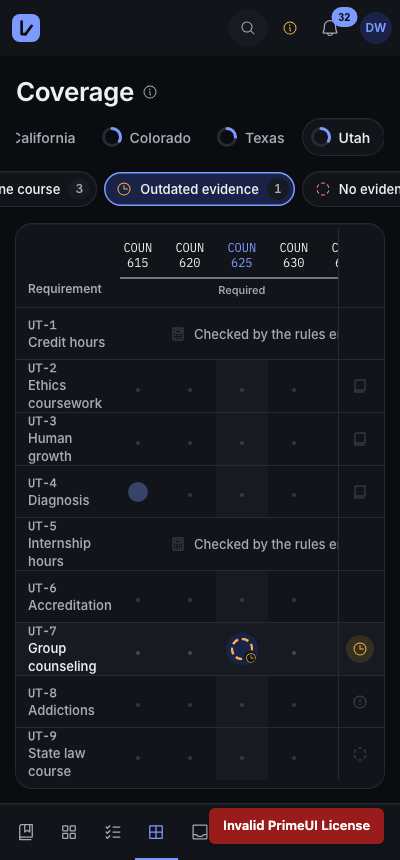
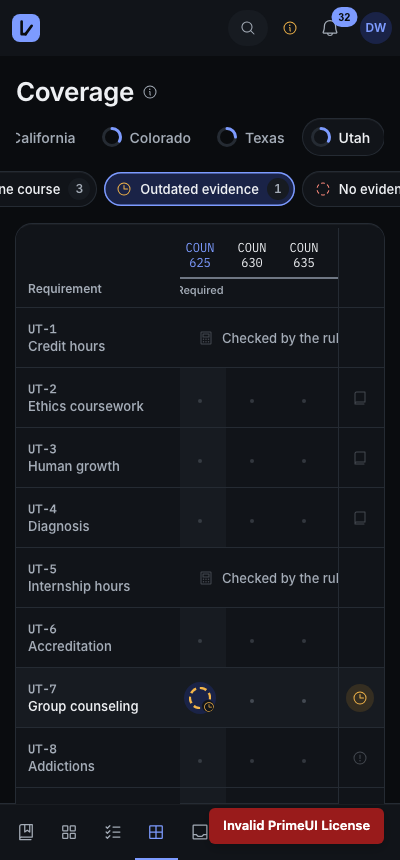
F10b: retaken coverage screenshots, D-417 and D-423 updated for the review

diff --git a/docs/decisions/F10b.md b/docs/decisions/F10b.md
@@ -15,8 +15,12 @@ started) are extracted as `ui/state-pills.ts`: the PrimeNG `TabList` and its tab
 `p-tabs` (Tab and TabList inject `Tabs` through the host element, so the screen keeps the panels and the ARIA tab
 pattern stays whole), the 20 px ring hidden from assistive technology with its numbers as the tab's description, and
 `view-transition-name: state-<code>` on the active pill. One addition: a pill opened from a link that lies beyond the
-edge of a narrow window is scrolled into view by scrolling the list, never the page. Review adopts it when UI2-2 is on
-`main` (see the progress file for where that stands at merge time).
+edge of a narrow window is scrolled into view by scrolling the list, never the page. UI2-2 merged first (813ae59), so
+this item moved Review onto it, as the orchestrator directed: Review's header renders `<lx-state-pills>` inside its
+`p-tabs`, its own pill markup, hidden descriptions and pill styles are deleted (one copy remains), and
+`stateProgress` now returns the shared `PillProgress` (`value` is the decided count; "6 of 8 reviewed" unchanged).
+Review's `selectJurisdiction`, `selectOnFocus`, the `?jurisdiction=` handling and its end-to-end tests are untouched;
+the description ids moved from `pill-progress-XX` to `lx-pill-progress-XX`, which no test names.
 
 **D-418 — The pill ring is the share of requirements without a flag.** `unflaggedShare`: requirements with risk `NONE`
 over all requirements of the state, labelled "2 of 8 with no flag" (the tab's description). A state without
@@ -47,8 +51,9 @@ to the ends of the row, Ctrl+Home and Ctrl+End to the first and last cell; empty
 skipped, as the StateMap skips non-target tiles (D-308). The card is one PrimeNG Popover (`focusOnShow` false): it
 opens on focus or after 120 ms of hover and stays open while the pointer travels into it; Enter on a cell moves the
 focus to "Open in Review" (`review?jurisdiction=XX&ref=REF`, the D-311 parameters); Escape closes it and returns the
-focus to the cell without reopening it. A focused cell is brought clear of the sticky columns by the frame's
-`scroll-padding`, and the card opens in the next frame, after that scroll's event, because PrimeNG closes an open
+focus to the cell without reopening it. A focused cell is scrolled clear of the sticky columns by measuring them
+(`reveal`; `scroll-padding` was tried first, but Chromium counts a cell half under a sticky column as visible and does
+not scroll), and the card opens in the next frame, after that scroll's event, because PrimeNG closes an open
 Popover on any scroll of its target's containers. The cell under the pointer or the keyboard lights its row and column.
 
 **D-422 — Flags: words, icon, colour; the filter dims by colour for words.** "Rests on an elective" (warning circle,
@@ -61,7 +66,11 @@ titles, and DESIGN.md requires AA for every text pair. The rows keep their place
 
 **D-423 — Narrow windows.** The frame scrolls sideways at every width (the page never does); the requirement column is
 sticky left and the flag column sticky right. Under 900 px the pills take their own row; under 640 px the chips scroll
-in one row, the requirement column is 132 px with the title on two lines, the flag column shows the icon (its words stay
+in one row, and the requirement column is 164 px (orchestrator review: 132 px cut "Psychopharmacology"). Its title
+wraps to two lines at most (`line-clamp: 2`, ellipsis, `hyphens: auto`, a longer word breaks rather than being cut),
+and every row is 60 px whether its title takes one line or two. A title the clamp cuts gets a tooltip with the full
+title (measured after each render and resize); the full text is always in the DOM for assistive technology. The flag
+column shows the icon (its words stay
 for assistive technology; the chips above pair each icon with its words), and the rules-engine note stays beside the
 requirement column. One line outside this item: the bottom tab bar's items are 40 px instead of 44 px
 (`shell/shell.css`), because the ninth screen made the bar scroll by 4 px at 400 px.

diff --git a/docs/progress/F10b.md b/docs/progress/F10b.md
@@ -25,7 +25,8 @@ Branch `ui2-coverage`, end-to-end slot 7. Decisions D-416 to D-425 in `docs/deci
 - **Motion**: column by column, 20 ms apart (at most twelve), marks scale in from .6 on the spring; off under reduced
   motion.
 - **Narrow windows**: the matrix scrolls inside its frame with sticky requirement and flag columns; a focused cell is
-  kept clear of them (`scroll-padding`); under 640 px the chips scroll in one row and the flag column shows its icon.
+  scrolled clear of them; under 640 px the chips scroll in one row, the requirement column is 164 px with titles on two
+  lines at most (ellipsis, a tooltip only for a cut title), every row 60 px, and the flag column shows its icon.
 - **Shell** (one line, D-423): bottom tab bar items 40 px so nine screens fit 400 px.
 
 ### Tests
@@ -43,10 +44,11 @@ Branch `ui2-coverage`, end-to-end slot 7. Decisions D-416 to D-425 in `docs/deci
 Initial 606.07 kB raw, 155.84 kB estimated transfer (warning 680 kB). Coverage chunk 36.94 kB raw, 9.56 kB transfer.
 
 ### Review and `StatePills`
-UI2-2 (PR #37) was still open when this branch was opened, so Review on `main` still has its v1 tabs and nothing on
-`main` to switch to the shared pills yet. Whichever of the two merges second switches Review's header to
-`<lx-state-pills [states]="..." [active]="jurisdiction()" />` inside its `p-tabs` (mapping `stateProgress` to
-`{ code, name, progress: { value: decided, total, label } }`) and deletes the copied pill markup and styles.
+UI2-2 merged first, so this branch moved Review onto the shared pills (D-417): Review's header renders
+`<lx-state-pills>` inside its `p-tabs`, its own pill markup and styles are gone, and `stateProgress` returns the shared
+`PillProgress`. Review's behaviour and end-to-end tests are unchanged; a Review capture on the slot-7 stack shows the
+same header as `ui2-2-review-1440`, so the `ui2-2-*` screenshots were not retaken (they differ only by the rail's new
+Coverage entry).
 
 ### Test tails (2026-11-27, `LEXVAY_E2E_SLOT=7 make test`, after merging origin/main)
 ```
